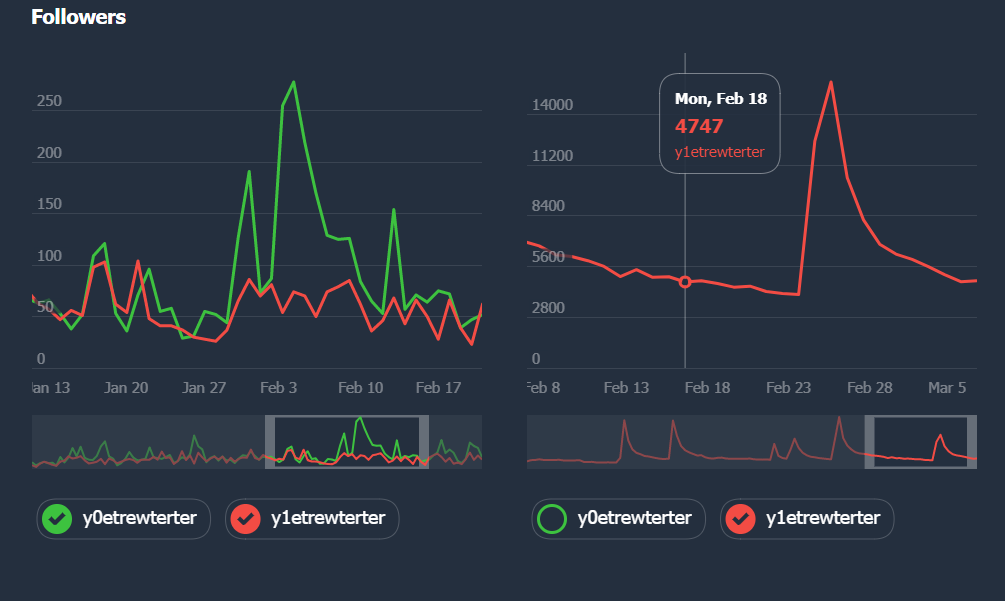
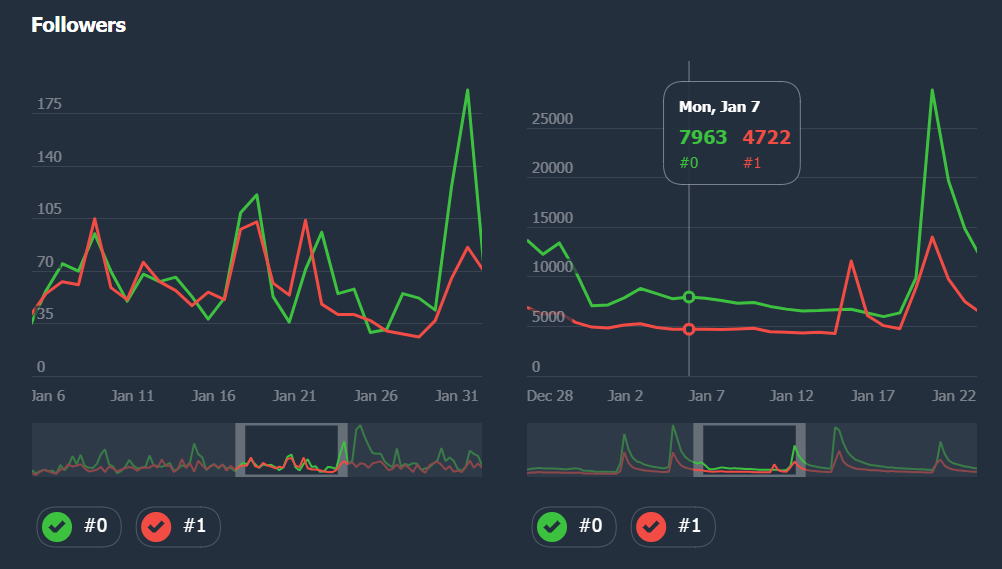
tooltip overflow fixes

diff --git a/src/telechart.min.js b/src/telechart.min.js
@@ -1,1 +1,1 @@
-var TeleChart=function(bW){var aU=window.parseInt,aG=Math.abs,h=Math.ceil,aF=Math.floor,bv=Math.round,bI=document,bC=undefined,x=true,r=false;var bo="line",am=12,Y=25,aI=1.5,bk=5,P=20,br=1,i=2,a1=3,bQ=4,R=5,bg=6,bu=[2,5,10],aj=["Jan","Feb","Mar","Apr","May","Jun","Jul","Aug","Sep","Oct","Nov","Dec"],z=["Sun","Mon","Tue","Wed","Thu","Fri","Sat"],E=["inherit","pointer","col-resize"],by=2*Math.PI,aZ="px",G="bold ",bS=bU(ac),f=bU(bb);var a=bI.getElementById(bW),bJ=a.offsetWidth*aI,v=aU(bJ*am/100),l=bJ-v-v*2,ap=v/2,p=l+v+bk*4,b1=p+v,K=b1+bk*10+P*4,g,m=bK(bJ,K,"m_"+bW),bG=bK(bJ,K,"f_"+bW),bV=m.getContext("2d"),aS=bG.getContext("2d"),bT,ah=[],bL={},I,F,bO,bM,aq,af,n={},aV,ax,a3,bh,a0,az,aQ,aR,aw,b0,bZ,bN,C,bw,Z,av,au,N,bt=0,bx,bE,aK,ai=1,bl,T,X,bD,c,aJ,bs,aE,O=0,ao=0,ag,y,bR,e=0,bf=[],aP=[],t,bH,a8,a7;function at(b4){aS.lineJoin=b4?"round":"miter"}function bd(){var b7=w("font-size"),b9=w("font-family"),b8=m.style;at(false);var b4=aU(b7.replace(/\D/g,"")),b6=function(ca){bc(ca,x)},b5=function(ca){bc(ca,r)};ag=aU(b4*1.2);y=aU(b4*aI);t=ag+aZ+" "+b9;a7=y+aZ+" "+b9;bH=G+t;a8=G+a7;M(t);aK=bn("XXX XX");b8.width=aU(bJ/aI)+aZ;b8.height=aU(K/aI)+aZ;a.appendChild(m);m.onmousemove=aW;m.ontouchmove=aW;m.onmouseout=aW;m.onmousedown=b6;m.onmouseup=b5;m.ontouchstart=b6;m.ontouchend=b5;window.addEventListener("scroll",aa);window.addEventListener("resize",aa);window.addEventListener("mouseup",b5);aa();al()}function bb(b4){bZ=b4}function bj(b4){au=b4}function aM(b4){bt=b4}function k(b4){aV=b4;bR=x}function bp(b4){ax=b4;bR=x}function ac(b4){aw=b4}function H(b4){ao=b4}function d(b4){T=b4}function a5(b4){O=b4}function B(b5,b4){b4.sOp=b5}function a4(b5,b4){b4.bPulse=b5}function bA(b4){ai=b4}function bP(){bT=null;ah=[];bi()}function A(){}function bi(){g=x}function al(){var b5=w("color"),b7=w("background-color"),b4,b6;for(b6=0;b6<=10;b6++){b4=b6/10;bf[b6]=u(b5,b4);aP[b6]=u(b7,b4)}bi()}function aB(b4){if(b4){bq(b4);bi()}}function w(b4){var b6=bI.body,b5=b6.currentStyle;if(b5){return b5[b4]}return bI.defaultView.getComputedStyle(b6,null)[b4]}function bK(b6,b4,b7){var b5=bI.createElement("canvas");b5.id="lr_"+b7;b5.width=b6;b5.height=b4;return b5}function j(b5,b6){var b4=new Date(b5);return(b6?z[b4.getDay()]+", ":"")+aj[b4.getMonth()]+" "+b4.getDate()}function bz(b5,b4){return b4===bC||b5>b4?b5:b4}function L(b5,b4){return b4===bC||b5<b4?b5:b4}function ae(b4){m.style.cursor=E[b4]}function U(b5){var b7=null,b6;if(!b0||!av){return}if(F<p&&I>0&&I<bJ){var b9=bv(I/b0+a0);ak(b9);if(s(aw,ac,b9)){s(O,a5,0)}n.tS=aV;n.tE=ax;n.tF=I;b7=bg;bi()}else{if(F>p&&F<b1){b7=br;var ca=(aV)*av,b4=(ax)*av,b8=ca-I,cb=b4-I;if(aG(b8+bk)<bk*2){b7=i}else{if(aG(cb-bk)<bk*2){b7=a1}else{if(I>ca&&I<b4){n.nS=b8/av;n.nE=cb/av;b7=bQ}}}}else{if(F>b1){for(b6 in ah){var cc=ah[b6];cc.bO=r;if(I>cc.bX&&I<cc.bX+cc.bW&&F>cc.bY&&F<cc.bY+cc.bH){cc.bO=x;b7=R}}}}}if(aq!==b7||b5){aq=b7;if(aq!==bg){s(ao,H,0)}else{if(aq!==R){for(b6 in ah){ah[b6].bO=r}}}switch(aq){case i:case a1:ae(2);break;case bQ:case R:ae(1);break;case bg:s(ao,H,1);ae(0);break;default:ae(0);break}}}function aT(b4){b4.preventDefault();b4.stopPropagation()}function aH(b4){a3=b4;s(aV,k,b4)}function S(b4){bh=b4;s(ax,bp,b4)}function aC(b5,b8,b9,b4){var b7=b5+b9,b6=b5+b4;if(b7<0){b7=0;b6=b4-b9}if(b6>b8){b6=b8;b7=b8-b4+b9}aH(b7);S(b6)}function b3(){var b5=I/av,b6=bT.data.length-2;if(b5<0){b5=0}else{if(b5>b6){b5=b6}}var b4=30/av;switch(aq){case i:if(ax-b5>b4){aH(b5)}break;case a1:if(b5-aV>b4){S(b5)}break;case bQ:aC(b5,b6,n.nS,n.nE);break}}function b(){if(!bT){return}if(bg===aq){var b4=(n.tF-I)/b0;if(b4>bk||n.tI){n.tI=x;var b5=bT.data.length-2;aC(b4,b5,n.tS,n.tE)}}else{b3()}}function bm(b7,b6){var b5=b7.clientX,b4=b7.clientY;if(b5&&b4){I=aU((b5-bO)*aI);F=aU((b4-bM)*aI);(af&&!b6)?b():U();bi()}}function aW(b6,b5){aT(b6);var b4=b6.touches;(b4&&b4.length)?bm(b4[0],b5):bm(b6,b5)}function bc(b8,b7){aT(b8);af=b7;aW(b8,true);if(b7){U(x);switch(aq){case bQ:case i:case a1:s(bt,aM,1,15);bx=aq;break;case R:af=false;for(var b6 in ah){var b5=ah[b6];if(b5.bO){b5.bOn=!b5.bOn;var b4=b5.bOn?1:0;s(b5.sOp,B,b4,bC,b5);s(0,a4,1,30,b5);ba();V()}}break;case bg:n.tI=x;break}}else{n.tI=false;s(bt,aM,0,15)}bi()}function aa(){var b4=m.getBoundingClientRect();bO=b4.left;bM=b4.top;bi()}function u(b5,b7){if(b7===1){return b5}if(b5.indexOf("#")!==-1){var b6=b5.length===7?/^#?([a-f\d]{2})([a-f\d]{2})([a-f\d]{2})$/i:/^#?([a-f\d])([a-f\d])([a-f\d])$/i;var b4=b6.exec(b5);b5="rgb("+aU(b4[1],16)+","+aU(b4[2],16)+","+aU(b4[3],16)+")"}if(b5.indexOf("a")===-1){return b5.replace(")",", "+b7+")").replace("rgb","rgba")}return b5}function aO(b4){aS.lineWidth=b4}function ab(){aS.beginPath()}function q(){aS.stroke()}function a9(){aS.closePath()}function bn(b4){return aS.measureText(b4).width}function aD(b5,b4,b6){aS.fillText(b5,b4,b6)}function Q(b5,b4,b6){b5?aS.moveTo(b4,b6):aS.lineTo(b4,b6)}function aX(b6,b5,b4,b7){aS.quadraticCurveTo(b6,b5,b4,b7)}function aY(){aS.fill()}function J(b5,b6,b4){aS.arc(b5,b6,b4,0,by)}function be(b4,b7,b5,b6){aS.fillRect(b4,b7,b5,b6)}function aA(b4){aS.strokeStyle=b4}function bF(b4){aS.fillStyle=b4}function M(b4){aS.font=b4}function D(b4,b5){aS.translate(b4,b5)}function an(){var b5=l+ap;ab();aA(bf[1]);aO(1);var b6=b5;while(b6>ap){var b4=aU(b6)+0.5;Q(x,0,b4);Q(r,bJ,b4);b6=b6+bE*bZ}q()}function b2(){var b9=l+ap,ce=bf[4],b7=!bw||!af,ca;if(b7){bw=aQ;Z=aU(h((az-a0)/6))}bF(aP[10]);be(0,p-v+bk*2,bJ,v-bk*2);aO(1);bF(ce);var b5=bw;if(!b7){while(b5-Z>=aQ){b5=b5-Z}while(b5<aQ){b5=b5+Z}}for(ca=aQ;ca<=aR;ca++){var b8=(ca-a0)*b0;if(b5<=ca){var cg=j(bT.data[ca]);aD(cg,b8,b9+bk*5);b5=b5+Z}}var cb=0,b6=b9,b4=aP[aU(7*ai)];ce=bf[aU(4*ai)];while(b6>ap){var cf=aU(b6)+0.5-bk;var cd=cb.toString();var cc=bn(cd);bF(b4);be(bk/2,cf-ag+2,cc+bk*2,ag);bF(ce);aD(cd,bk,cf);cb=aU(cb+bE);b6=b6+bE*bZ}}function o(b5,b9,b8,b4,b7,b6){ab();aA(bf[aU((b7?4:2)*b6)]);bF(aP[aU(3+6*b6)]);aO(1);Q(x,b5+P,b9);Q(r,b5+b8-P,b9);aX(b5+b8,b9,b5+b8,b9+P);Q(r,b5+b8,b9+b4-P);aX(b5+b8,b9+b4,b5+b8-P,b9+b4);Q(r,b5+P,b9+b4);aX(b5,b9+b4,b5,b9+b4-P);Q(r,b5,b9+P);aX(b5,b9,b5+P,b9);a9();aY();q()}function ar(b7){var b6=b7.bX,b5=b7.bY,b8=b7.color,b4=b7.name;o(b6,b5,b7.bW,b7.bH,b7.bO,1);bF(b8);ab();J(b6+P,b5+P,P-bk);aY();aA(aP[10]);aO(4);ab();D(-2,4);Q(x,b6+P-bk,b5+P-bk);Q(r,b6+P,b5+P);Q(r,b6+P+bk*1.8,b5+P-bk*1.8);D(2,-4);q();ab();bF(aP[10]);J(b6+P,b5+P,12-b7.sOp*12);aY();bF(bf[10]);M(a7);aD(b4,b6+P*2+bk+1,b5+P+ag/2-bk+2);M(t);ab();aA(bf[aU((1-b7.bPulse)*4)]);aO(10);J(b6+P,b5+P,b7.bPulse*30);q()}function bB(){for(var b4 in ah){ar(ah[b4])}}function W(){var b7=r,b6=l+ap,b8,b5,b4,ca,b9;for(b8 in ah){b4=ah[b8];if(b4.bOn){b7=x}ab();aO(2);aA(b4.sCg[aU(10*b4.sOp)]);var cb=bT.data.length;ca=0;for(b5=1;b5<cb;){b9=b1+(b4.data[b5]-N)*au;if(b9<p){b9=p}Q(b5===1,ca,b9);ca=b5++*av}q();at(true);ab();aO(3);for(b5=aQ;b5<=aR;){ca=(b5-a0)*b0;b9=b6+(b4.data[b5]-bN)*bZ;Q(b5++===aQ,ca,b9)}q();at(false)}return b7}function bX(){var b4=l+ap,cd=(aw-a0)*b0,cf=aF(aw),ce=cf+1,b7,b8,cj=10*ao;ab();aA(bf[aU(4*ao)]);aO(1);Q(x,cd,0);Q(r,cd,l+ap);q();aO(3);for(b7 in ah){b8=ah[b7];var ch=b4+(b8.data[cf]-bN)*bZ,ca,cc=b8.sOp;if(cf===aw||ce>=az){ca=ch}else{var cg=b4+(b8.data[ce]-bN)*bZ;ca=ch+(cg-ch)*(aw-cf)}ab();bF(aP[aU(cj*cc)]);J(cd,ca,3);aY();ab();aA(b8.sCg[aU(cj*cc)]);J(cd,ca,5);q()}o(cd+c,bD,T,X,x,ao);M(bH);bF(bf[aU(cj*O)]);aD(bl,cd+aJ,aE);var b5=P+bk*3;var cb=0;for(b7 in ah){b8=ah[b7];var ci=b8.data[cf];if(!b8.bOn){continue}var b9=(cb&1);var b6=b9?bs:aJ;if(!b9){b5+=(y+bk)*2}bF(b8.sCg[aU(cj*O)]);M(a8);aD(ci,cd+b6,b5);M(t);aD(b8.name,cd+b6,b5+y+bk);cb++}}function aN(b6,b4){if(bt){var b5;if(bx===i){b5=b6}else{if(bx===a1){b5=b4}else{b5=b6+(b4-b6)/2}}ab();bF(bf[aU(bt*2)]);J(b5,p+v/2,bt*35);aY()}}function a2(){aS.clearRect(0,0,bJ,K);if(bT&&ah&&ah.length){M(t);var b4=a3*av,b6=bh*av;bF(bf[3]);be(b4,p,b6-b4,v);bF(aP[10]);be(b4+bk*2,p+bk/2,b6-b4-bk*4,v-bk);an();var b5=W();bF(bf[1]);be(0,p,b4,v);be(b6,p,bJ-b6,v);bF(aP[5]);be(0,p,b4,v);be(b6,p,bJ-b6,v);if(b5){b2()}if(b5&&ao>0){bX()}bB();aN(b4,b6);bV.clearRect(0,0,bJ,K);bV.drawImage(bG,0,0,bJ,K)}}function ba(){av=(bJ)/(bT.data.length-2);var b4=bC,b6=e,b7;for(b7 in ah){var b5=ah[b7];if(b5.bOn){b4=bz(b5.max,b4);b6=L(b5.min,b6)}}if(b4){N=b6+1;if(s(au,bj,-(v-2)/(b4-b6))){s(ai,bA,0,2)}}}function aL(){var b6=h((C-bN)/6),b4=b6/25,b7=0,b9=1,b8,b5;do{if(b7>=bu.length){b7=0;b9=b9*10}b5=bu[b7]*b9;b8=h(b6/b5)*b5;b7++}while(b8-b6<b4);bE=b8}function V(){a0=aV+1;az=ax+1;var b4=bC,b7=e,b9,b8;for(b9 in ah){var b6=ah[b9];if(b6.bOn){aQ=aF(a0);aR=h(az);for(b8=aQ;b8<=aR;b8++){var b5=b6.data[b8];b4=bz(b5,b4);b7=L(b5,b7)}}}if(b4){b0=bJ/(az-a0);bN=b7;C=b4;s(bZ,bb,-(l-2)/(b4-b7));aL()}}function ay(){var b7=bk,b5=b1+bk*6,b8=P*2,ca,b9;M(a7);for(ca in ah){var b6=ah[ca],b4=40+bk*4+bn(b6.name);if(b7+b4>bJ){b7=bk;b5=b5+b8+bk*3}b6.bX=b7;b6.bY=b5;b6.bW=b4;b6.bH=b8;b6.sCg=[];b7=b7+b4+bk*3;for(b9=0;b9<=10;b9++){b6.sCg[b9]=u(b6.color,b9/10)}}M(t)}function bq(b4){if(!b4){return}var b7=b4.columns,b8;if(!b7){return}for(b8 in b7){var cd=b7[b8],b5=cd.length,ce=bC,ca=bC,cb=cd[0];for(var b6=1;b6<b5;b6++){var cc=cd[b6];ce=bz(cc,ce);ca=L(cc,ca)}if(cb==="x"){bT={data:cd,min:ca,max:ce};S(b5-2);aH(bh-(bh)*Y/100)}else{ah.push({alias:cb,data:cd,type:bo,name:cb,min:ca,max:ce,bOn:x,sOp:1})}}function b9(cj,ck){if(cj){var ch,cg,ci,cf;for(ch in cj){cg=cj[ch];for(ci in ah){cf=ah[ci];if(cf.alias===ch){cf[ck]=cg}}}}}b9(b4.types,"type");b9(b4.colors,"color");b9(b4.names,"name");ba();ay()}function bU(b4){return b4.name||b4.toString().match(/^function\s*([^\s(]+)/)[1]}function s(b4,b9,b7,b6,b8){if(b4===b7||!b9){return r}var b5=bU(b9);if(b8){b5+=b8.alias}bL[b5]={i:b4,c:b9,p:b7,s:b6||(af||aq===bg?5:15),o:b8};return x}function bY(){var b4,b5;for(b4 in bL){b5=bL[b4];if(b5){if(!b5.f){b5.f=(b5.p-b5.i)/b5.s}b5.i=b5.i+b5.f;if(b5.f!==0&&aG(b5.i-b5.p)>aG(b5.f*2)){b5.c(b5.i,b5.o)}else{b5.c(b5.p,b5.o);delete bL[b4];a6(b4)}bi()}}}function ak(cb){bD=P+0.5;c=-25.5;aJ=-25+bk*3;aE=P+bk*3+ag+0.5;var b9=aF(cb);bl=j(bT.data[b9],x);var b4=bk;var b8=0;for(var ca in ah){var b7=ah[ca];if(!b7.bOn){continue}b8++;var b5=b7.data[b9];M(a8);b4=bz(bn(b5)+bk,b4);M(t);b4=bz(bn(b7.name)+bk,b4)}bs=b4;var b6=(b4+bk*3);if(b8>1){b6*=2}b6=bz(120.5,b6);s(T,d,b6);X=55+h(b8/2)*((y+bk)*2)}function a6(b4){if(b4===bS){s(O,a5,1,5)}else{if(b4===f){s(ai,bA,1,10)}}}function ad(){bY();if(bR){bR=r;V()}if(g){g=r;a2()}requestAnimationFrame(ad)}bd();ad();return{draw:aB,invalidate:al,clear:bP,destroy:A}};
+var TeleChart=function(bW){var aU=window.parseInt,aG=Math.abs,h=Math.ceil,aF=Math.floor,bv=Math.round,bI=document,bC=undefined,x=true,r=false;var bo="line",am=12,Y=25,aI=1.5,bk=5,P=20,br=1,i=2,a1=3,bQ=4,R=5,bg=6,bu=[2,5,10],aj=["Jan","Feb","Mar","Apr","May","Jun","Jul","Aug","Sep","Oct","Nov","Dec"],z=["Sun","Mon","Tue","Wed","Thu","Fri","Sat"],E=["inherit","pointer","col-resize"],by=2*Math.PI,aZ="px",G="bold ",bS=bU(ac),f=bU(bb);var a=bI.getElementById(bW),bJ=a.offsetWidth*aI,v=aU(bJ*am/100),l=bJ-v-v*2,ap=v/2,p=l+v+bk*4,b1=p+v,K=b1+bk*10+P*4,g,m=bK(bJ,K,"m_"+bW),bG=bK(bJ,K,"f_"+bW),bV=m.getContext("2d"),aS=bG.getContext("2d"),bT,ah=[],bL={},I,F,bO,bM,aq,af,n={},aV,ax,a3,bh,a0,az,aQ,aR,aw,b0,bZ,bN,C,bw,Z,av,au,N,bt=0,bx,bE,aK,ai=1,bl,T,X,bD,c,aJ,bs,aE,O=0,ao=0,ag,y,bR,e=0,bf=[],aP=[],t,bH,a8,a7;function at(b4){aS.lineJoin=b4?"round":"bevel"}function bd(){var b7=w("font-size"),b9=w("font-family"),b8=m.style;at(false);var b4=aU(b7.replace(/\D/g,"")),b6=function(ca){bc(ca,x)},b5=function(ca){bc(ca,r)};ag=aU(b4*1.2);y=aU(b4*aI);t=ag+aZ+" "+b9;a7=y+aZ+" "+b9;bH=G+t;a8=G+a7;M(t);aK=bn("XXX XX");b8.width=aU(bJ/aI)+aZ;b8.height=aU(K/aI)+aZ;a.appendChild(m);m.onmousemove=aW;m.ontouchmove=aW;m.onmouseout=aW;m.onmousedown=b6;m.onmouseup=b5;m.ontouchstart=b6;m.ontouchend=b5;window.addEventListener("scroll",aa);window.addEventListener("resize",aa);window.addEventListener("mouseup",b5);aa();al()}function bb(b4){bZ=b4}function bj(b4){au=b4}function aM(b4){bt=b4}function k(b4){aV=b4;bR=x}function bp(b4){ax=b4;bR=x}function ac(b4){aw=b4}function H(b4){ao=b4}function d(b4){T=b4}function a5(b4){O=b4}function B(b5,b4){b4.sOp=b5}function a4(b5,b4){b4.bPulse=b5}function bA(b4){ai=b4}function bP(){bT=null;ah=[];bi()}function A(){}function bi(){g=x}function al(){var b5=w("color"),b7=w("background-color"),b4,b6;for(b6=0;b6<=10;b6++){b4=b6/10;bf[b6]=u(b5,b4);aP[b6]=u(b7,b4)}bi()}function aB(b4){if(b4){bq(b4);bi()}}function w(b4){var b6=bI.body,b5=b6.currentStyle;if(b5){return b5[b4]}return bI.defaultView.getComputedStyle(b6,null)[b4]}function bK(b6,b4,b7){var b5=bI.createElement("canvas");b5.id="lr_"+b7;b5.width=b6;b5.height=b4;return b5}function j(b5,b6){var b4=new Date(b5);return(b6?z[b4.getDay()]+", ":"")+aj[b4.getMonth()]+" "+b4.getDate()}function bz(b5,b4){return b4===bC||b5>b4?b5:b4}function L(b5,b4){return b4===bC||b5<b4?b5:b4}function ae(b4){m.style.cursor=E[b4]}function U(b5){var b7=null,b6;if(!b0||!av){return}if(F<p&&I>0&&I<bJ){var b9=bv(I/b0+a0);ak(b9);if(s(aw,ac,b9)){s(O,a5,0)}n.tS=aV;n.tE=ax;n.tF=I;b7=bg;bi()}else{if(F>p&&F<b1){b7=br;var ca=(aV)*av,b4=(ax)*av,b8=ca-I,cb=b4-I;if(aG(b8+bk)<bk*2){b7=i}else{if(aG(cb-bk)<bk*2){b7=a1}else{if(I>ca&&I<b4){n.nS=b8/av;n.nE=cb/av;b7=bQ}}}}else{if(F>b1){for(b6 in ah){var cc=ah[b6];cc.bO=r;if(I>cc.bX&&I<cc.bX+cc.bW&&F>cc.bY&&F<cc.bY+cc.bH){cc.bO=x;b7=R}}}}}if(aq!==b7||b5){aq=b7;if(aq!==bg){s(ao,H,0)}else{if(aq!==R){for(b6 in ah){ah[b6].bO=r}}}switch(aq){case i:case a1:ae(2);break;case bQ:case R:ae(1);break;case bg:s(ao,H,1);ae(0);break;default:ae(0);break}}}function aT(b4){b4.preventDefault();b4.stopPropagation()}function aH(b4){a3=b4;s(aV,k,b4)}function S(b4){bh=b4;s(ax,bp,b4)}function aC(b5,b8,b9,b4){var b7=b5+b9,b6=b5+b4;if(b7<0){b7=0;b6=b4-b9}if(b6>b8){b6=b8;b7=b8-b4+b9}aH(b7);S(b6)}function b3(){var b5=I/av,b6=bT.data.length-2;if(b5<0){b5=0}else{if(b5>b6){b5=b6}}var b4=30/av;switch(aq){case i:if(ax-b5>b4){aH(b5)}break;case a1:if(b5-aV>b4){S(b5)}break;case bQ:aC(b5,b6,n.nS,n.nE);break}}function b(){if(!bT){return}if(bg===aq){var b4=(n.tF-I)/b0;if(b4>bk||n.tI){n.tI=x;var b5=bT.data.length-2;aC(b4,b5,n.tS,n.tE)}}else{b3()}}function bm(b7,b6){var b5=b7.clientX,b4=b7.clientY;if(b5&&b4){I=aU((b5-bO)*aI);F=aU((b4-bM)*aI);(af&&!b6)?b():U();bi()}}function aW(b6,b5){aT(b6);var b4=b6.touches;(b4&&b4.length)?bm(b4[0],b5):bm(b6,b5)}function bc(b8,b7){aT(b8);af=b7;aW(b8,true);if(b7){U(x);switch(aq){case bQ:case i:case a1:s(bt,aM,1,15);bx=aq;break;case R:af=false;for(var b6 in ah){var b5=ah[b6];if(b5.bO){b5.bOn=!b5.bOn;var b4=b5.bOn?1:0;s(b5.sOp,B,b4,bC,b5);s(0,a4,1,30,b5);ba();V()}}break;case bg:n.tI=x;break}}else{n.tI=false;s(bt,aM,0,15)}bi()}function aa(){var b4=m.getBoundingClientRect();bO=b4.left;bM=b4.top;bi()}function u(b5,b7){if(b7===1){return b5}if(b5.indexOf("#")!==-1){var b6=b5.length===7?/^#?([a-f\d]{2})([a-f\d]{2})([a-f\d]{2})$/i:/^#?([a-f\d])([a-f\d])([a-f\d])$/i;var b4=b6.exec(b5);b5="rgb("+aU(b4[1],16)+","+aU(b4[2],16)+","+aU(b4[3],16)+")"}if(b5.indexOf("a")===-1){return b5.replace(")",", "+b7+")").replace("rgb","rgba")}return b5}function aO(b4){aS.lineWidth=b4}function ab(){aS.beginPath()}function q(){aS.stroke()}function a9(){aS.closePath()}function bn(b4){return aS.measureText(b4).width}function aD(b5,b4,b6){aS.fillText(b5,b4,b6)}function Q(b5,b4,b6){b5?aS.moveTo(b4,b6):aS.lineTo(b4,b6)}function aX(b6,b5,b4,b7){aS.quadraticCurveTo(b6,b5,b4,b7)}function aY(){aS.fill()}function J(b5,b6,b4){aS.arc(b5,b6,b4,0,by)}function be(b4,b7,b5,b6){aS.fillRect(b4,b7,b5,b6)}function aA(b4){aS.strokeStyle=b4}function bF(b4){aS.fillStyle=b4}function M(b4){aS.font=b4}function D(b4,b5){aS.translate(b4,b5)}function an(){var b5=l+ap;ab();aA(bf[1]);aO(1);var b6=b5;while(b6>ap){var b4=aU(b6)+0.5;Q(x,0,b4);Q(r,bJ,b4);b6=b6+bE*bZ}q()}function b2(){var b9=l+ap,ce=bf[4],b7=!bw||!af,ca;if(b7){bw=aQ;Z=aU(h((az-a0)/6))}aO(1);bF(ce);var b5=bw;if(!b7){while(b5-Z>=aQ){b5=b5-Z}while(b5<aQ){b5=b5+Z}}for(ca=aQ;ca<=aR;ca++){var b8=(ca-a0)*b0;if(b5<=ca){var cg=j(bT.data[ca]);aD(cg,b8,b9+bk*5);b5=b5+Z}}var cb=0,b6=b9,b4=aP[aU(7*ai)];ce=bf[aU(4*ai)];while(b6>ap){var cf=aU(b6)+0.5-bk;var cd=cb.toString();var cc=bn(cd);bF(b4);be(bk/2,cf-ag+2,cc+bk*2,ag);bF(ce);aD(cd,bk,cf);cb=aU(cb+bE);b6=b6+bE*bZ}}function o(b5,b9,b8,b4,b7,b6){ab();aA(bf[aU((b7?4:2)*b6)]);bF(aP[aU(3+6*b6)]);aO(1);Q(x,b5+P,b9);Q(r,b5+b8-P,b9);aX(b5+b8,b9,b5+b8,b9+P);Q(r,b5+b8,b9+b4-P);aX(b5+b8,b9+b4,b5+b8-P,b9+b4);Q(r,b5+P,b9+b4);aX(b5,b9+b4,b5,b9+b4-P);Q(r,b5,b9+P);aX(b5,b9,b5+P,b9);a9();aY();q()}function ar(b7){var b6=b7.bX,b5=b7.bY,b8=b7.color,b4=b7.name;o(b6,b5,b7.bW,b7.bH,b7.bO,1);bF(b8);ab();J(b6+P,b5+P,P-bk);aY();aA(aP[10]);aO(4);ab();D(-2,4);Q(x,b6+P-bk,b5+P-bk);Q(r,b6+P,b5+P);Q(r,b6+P+bk*1.8,b5+P-bk*1.8);D(2,-4);q();ab();bF(aP[10]);J(b6+P,b5+P,12-b7.sOp*12);aY();bF(bf[10]);M(a7);aD(b4,b6+P*2+bk+1,b5+P+ag/2-bk+2);M(t);ab();aA(bf[aU((1-b7.bPulse)*4)]);aO(10);J(b6+P,b5+P,b7.bPulse*30);q()}function bB(){for(var b4 in ah){ar(ah[b4])}}function W(){var b7=r,b6=l+ap,b8,b5,b4,ca,b9;for(b8 in ah){b4=ah[b8];if(b4.bOn){b7=x}ab();aO(2);aA(b4.sCg[aU(10*b4.sOp)]);var cb=bT.data.length;ca=0;for(b5=1;b5<cb;){b9=b1+(b4.data[b5]-N)*au;if(b9<p){b9=p}Q(b5===1,ca,b9);ca=b5++*av}q();at(true);ab();aO(3);for(b5=aQ;b5<=aR;){ca=(b5-a0)*b0;b9=b6+(b4.data[b5]-bN)*bZ;Q(b5++===aQ,ca,b9)}q();at(false)}return b7}function bX(){var cg=l+ap,b6=(aw-a0)*b0,cb=aF(aw),cj=cb+1,b4,ci,b7=10*ao;ab();aA(bf[aU(4*ao)]);aO(1);Q(x,b6,0);Q(r,b6,l+ap);q();aO(3);for(b4 in ah){ci=ah[b4];var b9=cg+(ci.data[cb]-bN)*bZ,b5,cf=ci.sOp;if(cb===aw||cj>=az){b5=b9}else{var ca=cg+(ci.data[cj]-bN)*bZ;b5=b9+(ca-b9)*(aw-cb)}ab();bF(aP[aU(b7*cf)]);J(b6,b5,3);aY();ab();aA(ci.sCg[aU(b7*cf)]);J(b6,b5,5);q()}var cl=b6+c-3,ce=0;if(cl<0){b6=-c+3}else{var cd=cl+T-bJ+6;if(cd>0){ce=cd-T+P*2;b6=bJ-c-T-3}}if(cl>0){cl=0}if(ce<0){ce=0}o(b6+c+cl,bD,T-cl+ce,X,x,ao);M(bH);bF(bf[aU(b7*O)]);aD(bl,b6+aJ,aE);var cm=P+bk*3;var ch=0;for(b4 in ah){ci=ah[b4];var b8=ci.data[cb];if(!ci.bOn){continue}var ck=(ch&1);var cc=ck?bs:aJ;if(!ck){cm+=(y+bk)*2}bF(ci.sCg[aU(b7*O)]);M(a8);aD(b8,b6+cc,cm);M(t);aD(ci.name,b6+cc,cm+y+bk);ch++}}function aN(b6,b4){if(bt){var b5;if(bx===i){b5=b6}else{if(bx===a1){b5=b4}else{b5=b6+(b4-b6)/2}}ab();bF(bf[aU(bt*2)]);J(b5,p+v/2,bt*35);aY()}}function a2(){aS.clearRect(0,0,bJ,K);if(bT&&ah&&ah.length){M(t);var b4=a3*av,b6=bh*av;bF(bf[3]);be(b4,p,b6-b4,v);bF(aP[10]);be(b4+bk*2,p+bk/2,b6-b4-bk*4,v-bk);an();var b5=W();bF(bf[1]);be(0,p,b4,v);be(b6,p,bJ-b6,v);bF(aP[5]);be(0,p,b4,v);be(b6,p,bJ-b6,v);if(b5){b2()}if(b5&&ao>0){bX()}bB();aN(b4,b6);bV.clearRect(0,0,bJ,K);bV.drawImage(bG,0,0,bJ,K)}}function ba(){av=(bJ)/(bT.data.length-2);var b4=bC,b6=e,b7;for(b7 in ah){var b5=ah[b7];if(b5.bOn){b4=bz(b5.max,b4);b6=L(b5.min,b6)}}if(b4){N=b6+1;if(s(au,bj,-(v-2)/(b4-b6))){s(ai,bA,0,2)}}}function aL(){var b6=h((C-bN)/6),b4=b6/25,b7=0,b9=1,b8,b5;do{if(b7>=bu.length){b7=0;b9=b9*10}b5=bu[b7]*b9;b8=h(b6/b5)*b5;b7++}while(b8-b6<b4);bE=b8}function V(){a0=aV+1;az=ax+1;var b4=bC,b7=e,b9,b8;for(b9 in ah){var b6=ah[b9];if(b6.bOn){aQ=aF(a0);aR=h(az);for(b8=aQ;b8<=aR;b8++){var b5=b6.data[b8];b4=bz(b5,b4);b7=L(b5,b7)}}}if(b4){b0=bJ/(az-a0);bN=b7;C=b4;s(bZ,bb,-(l-2)/(b4-b7));aL()}}function ay(){var b7=bk,b5=b1+bk*6,b8=P*2,ca,b9;M(a7);for(ca in ah){var b6=ah[ca],b4=40+bk*4+bn(b6.name);if(b7+b4>bJ){b7=bk;b5=b5+b8+bk*3}b6.bX=b7;b6.bY=b5;b6.bW=b4;b6.bH=b8;b6.sCg=[];b7=b7+b4+bk*3;for(b9=0;b9<=10;b9++){b6.sCg[b9]=u(b6.color,b9/10)}}M(t)}function bq(b4){if(!b4){return}var b7=b4.columns,b8;if(!b7){return}for(b8 in b7){var cd=b7[b8],b5=cd.length,ce=bC,ca=bC,cb=cd[0];for(var b6=1;b6<b5;b6++){var cc=cd[b6];ce=bz(cc,ce);ca=L(cc,ca)}if(cb==="x"){bT={data:cd,min:ca,max:ce};S(b5-2);aH(bh-(bh)*Y/100)}else{ah.push({alias:cb,data:cd,type:bo,name:cb,min:ca,max:ce,bOn:x,sOp:1})}}function b9(cj,ck){if(cj){var ch,cg,ci,cf;for(ch in cj){cg=cj[ch];for(ci in ah){cf=ah[ci];if(cf.alias===ch){cf[ck]=cg}}}}}b9(b4.types,"type");b9(b4.colors,"color");b9(b4.names,"name");ba();ay()}function bU(b4){return b4.name||b4.toString().match(/^function\s*([^\s(]+)/)[1]}function s(b4,b9,b7,b6,b8){if(b4===b7||!b9){return r}var b5=bU(b9);if(b8){b5+=b8.alias}bL[b5]={i:b4,c:b9,p:b7,s:b6||(af||aq===bg?5:15),o:b8};return x}function bY(){var b4,b5;for(b4 in bL){b5=bL[b4];if(b5){if(!b5.f){b5.f=(b5.p-b5.i)/b5.s}b5.i=b5.i+b5.f;if(b5.f!==0&&aG(b5.i-b5.p)>aG(b5.f*2)){b5.c(b5.i,b5.o)}else{b5.c(b5.p,b5.o);delete bL[b4];a6(b4)}bi()}}}function ak(cb){bD=P+0.5;c=-25.5;aJ=-25+bk*3;aE=P+bk*3+ag+0.5;var b9=aF(cb);bl=j(bT.data[b9],x);var b4=bk;var b8=0;for(var ca in ah){var b7=ah[ca];if(!b7.bOn){continue}b8++;var b5=b7.data[b9];M(a8);b4=bz(bn(b5)+bk,b4);M(t);b4=bz(bn(b7.name)+bk,b4)}bs=b4;var b6=(b4+bk*3);if(b8>1){b6*=2}b6=bz(120.5,b6);s(T,d,b6);X=55+h(b8/2)*((y+bk)*2)}function a6(b4){if(b4===bS){s(O,a5,1,5)}else{if(b4===f){s(ai,bA,1,10)}}}function ad(){bY();if(bR){bR=r;V()}if(g){g=r;a2()}requestAnimationFrame(ad)}bd();ad();return{draw:aB,invalidate:al,clear:bP,destroy:A}};

diff --git a/src/telechart.js b/src/telechart.js
@@ -51,7 +51,7 @@ var TeleChart = function (ctxId) {
         selectionUpSpace = navigatorHeight / 2,
         navigatorTop = selectionHeight + navigatorHeight + CONST_PADDING * 4,
         navigatorBottom = navigatorTop + navigatorHeight,
-        totalHeight = navigatorBottom + CONST_PADDING *10 + CONST_BTN_RADIUS * 4,
+        totalHeight = navigatorBottom + CONST_PADDING * 10 + CONST_BTN_RADIUS * 4,
         needRedraw,
         mainCanvas = createCanvas(totalWidth, totalHeight, "m_" + ctxId),
         frameCanvas = createCanvas(totalWidth, totalHeight, "f_" + ctxId),
@@ -120,7 +120,7 @@ var TeleChart = function (ctxId) {
         envRegularNormalFont;
 
     function setRound(enable) {
-        frameContext.lineJoin = enable? "round": "miter";
+        frameContext.lineJoin = enable ? "round" : "bevel";
     }
 
     /**
@@ -345,7 +345,7 @@ var TeleChart = function (ctxId) {
                 animate(legendTextOpacity, setLegendTextOpacity, 0);
             }
             mouseFrame.tS = zoomStartSmooth;
-            mouseFrame.tE = zoomEndSmooth ;
+            mouseFrame.tE = zoomEndSmooth;
             mouseFrame.tF = mouseX;
             _result = ENUM_SELECTION_HOVER;
             invalidateInner();
@@ -356,9 +356,9 @@ var TeleChart = function (ctxId) {
                 _startZShift = _startZoom - mouseX,
                 _endZShift = _endZoom - mouseX;
 
-            if (fMathAbs(_startZShift + CONST_PADDING) < CONST_PADDING*2) {
+            if (fMathAbs(_startZShift + CONST_PADDING) < CONST_PADDING * 2) {
                 _result = ENUM_START_SELECTION_HOVER;
-            } else if (fMathAbs(_endZShift - CONST_PADDING) < CONST_PADDING*2) {
+            } else if (fMathAbs(_endZShift - CONST_PADDING) < CONST_PADDING * 2) {
                 _result = ENUM_END_SELECTION_HOVER;
             } else if (mouseX > _startZoom && mouseX < _endZoom) {
                 mouseFrame.nS = _startZShift / navigatorFactorX;
@@ -751,8 +751,8 @@ var TeleChart = function (ctxId) {
         }
 
 
-        setFillStyle(envBgColorGrad[10]);
-        fillRect(0, navigatorTop - navigatorHeight + CONST_PADDING * 2, totalWidth, navigatorHeight - CONST_PADDING * 2);
+        //setFillStyle(envBgColorGrad[10]);
+        //fillRect(0, navigatorTop - navigatorHeight + CONST_PADDING * 2, totalWidth, navigatorHeight - CONST_PADDING * 2);
         //X-axis labels
         setLineWidth(1);
         setFillStyle(_c);
@@ -922,7 +922,7 @@ var TeleChart = function (ctxId) {
     /**
      * Draws the legend
      */
-    function drawSeriesLegend() { //todo optimize
+    function drawSeriesLegend() { //todo optimize (big code)
         var _selectionAxis = selectionHeight + selectionUpSpace,
             _sValueX = (selectionCurrentIndexFloat - selectionStartIndexFloat  ) * selectionFactorX,
             _from = fMathFloor(selectionCurrentIndexFloat),
@@ -962,12 +962,33 @@ var TeleChart = function (ctxId) {
             circle(_sValueX, _sValueY, 5);
             endPath();
         }
-        drawBalloon(_sValueX + legendLeft, legendTop,
-            legendWidth, legendHeight, vTrue, legendBoxOpacity);
+
+        var _left = _sValueX + legendLeft - 3,
+            _right = 0;
+        if (_left < 0) {
+            _sValueX =  - legendLeft+ 3;
+        }
+        else {
+            var _overlap = _left + legendWidth - totalWidth + 6 ;
+            if (_overlap > 0) {
+                _right = _overlap - legendWidth+ CONST_BTN_RADIUS*2;
+                _sValueX =   totalWidth - legendLeft - legendWidth - 3;
+            }
+        }
+
+        if (_left > 0) {
+            _left = 0;
+        }
+        if (_right < 0) {
+            _right = 0;
+        }
+
+        drawBalloon(_sValueX + legendLeft+_left, legendTop,
+            legendWidth - _left + _right, legendHeight, vTrue, legendBoxOpacity);
         setFont(envBoldSmallFont);
         setFillStyle(envColorGrad[fParseInt(_legendBoxOpacity * legendTextOpacity)]);
         fillText(legendDateText, _sValueX + legendDateLeft, legendDateTop);
-        var _currentY = CONST_BTN_RADIUS + CONST_PADDING * 3 ;
+        var _currentY = CONST_BTN_RADIUS + CONST_PADDING * 3;
         var _qnt = 0;
         for (_i in yAxisDataRefs) {
             _axisY = yAxisDataRefs[_i];
@@ -1005,7 +1026,7 @@ var TeleChart = function (ctxId) {
             }
 
             beginPath();
-            setFillStyle(envColorGrad[fParseInt(navigatorPressed*2)]);
+            setFillStyle(envColorGrad[fParseInt(navigatorPressed * 2)]);
 
             circle(_x, navigatorTop + navigatorHeight / 2, navigatorPressed * 35);
             fill();
@@ -1055,7 +1076,7 @@ var TeleChart = function (ctxId) {
             //  frameContext.fillStyle = "rgba(0, 0, 0, 0.2)";
             //   frameContext.fillText("mouseX " + mouseX, 10, 50);
             //    frameContext.fillText("mouseY " + mouseY, 10, 70);
-           // frameContext.fillText("mouseFrame.tS=" +mouseFrame.tS, 10, 30);
+            // frameContext.fillText("mouseFrame.tS=" +mouseFrame.tS, 10, 30);
             mainCtx.clearRect(0, 0, totalWidth, totalHeight);
             mainCtx.drawImage(frameCanvas, 0, 0, totalWidth, totalHeight);
         }
@@ -1144,7 +1165,7 @@ var TeleChart = function (ctxId) {
     function calcButtonsParams() {
         var _x = CONST_PADDING,
             _y = navigatorBottom + CONST_PADDING * 6,
-            _height = CONST_BTN_RADIUS* 2,
+            _height = CONST_BTN_RADIUS * 2,
             _i,
             _j;
         setFont(envRegularNormalFont);
@@ -1209,7 +1230,7 @@ var TeleChart = function (ctxId) {
                         alias: _alias,
                         data: _column, //without realloc mem
                         type: CONST_DEFAULT_TYPE,
-                        name: _alias , //todo debug need remove + "etrewterter"
+                        name: _alias, //todo debug need remove + "etrewterter"
                         min: _min,
                         max: _max,
                         bOn: vTrue,
@@ -1239,7 +1260,7 @@ var TeleChart = function (ctxId) {
 
         assignAxisProperty(src.types, "type");
         assignAxisProperty(src.colors, "color");
-         assignAxisProperty(src.names, "name"); //todo need revert debug
+        assignAxisProperty(src.names, "name"); //todo need revert debug
 
         calcNavigatorFactors();
         calcButtonsParams();
@@ -1312,11 +1333,9 @@ var TeleChart = function (ctxId) {
      *  Calculate legend in cache once before show
      */
     function calcLegendPosition(pos) {
-
-
         legendTop = CONST_BTN_RADIUS + 0.5;
-        legendLeft = -25.5;
-        legendDateLeft = - 25 + CONST_PADDING * 3;
+        legendLeft = -25.5;// -25.5;
+        legendDateLeft = -25 + CONST_PADDING * 3;
         legendDateTop = CONST_BTN_RADIUS + CONST_PADDING * 3 + envSmallTextHeight + 0.5;
         var _dataIndex = fMathFloor(pos);
         legendDateText = formatDate(xAxisDataRef.data[_dataIndex], vTrue);
@@ -1331,20 +1350,19 @@ var TeleChart = function (ctxId) {
             _qnt++;
             var _value = _axisY.data[_dataIndex];
             setFont(envBoldNormalFont);
-             _width = getMax(getTextWidth(_value) + CONST_PADDING, _width);
+            _width = getMax(getTextWidth(_value) + CONST_PADDING, _width);
             setFont(envRegularSmallFont);
-             _width = getMax(getTextWidth(_axisY.name) + CONST_PADDING, _width);
+            _width = getMax(getTextWidth(_axisY.name) + CONST_PADDING, _width);
         }
 
-        legendDateLeftEx =_width;
+        legendDateLeftEx = _width;
         var _proposedWidth = (_width + CONST_PADDING * 3);
-        if (_qnt> 1)
-        {
-            _proposedWidth*= 2;
+        if (_qnt > 1) {
+            _proposedWidth *= 2;
         }
         _proposedWidth = getMax(120.5, _proposedWidth);
-        animate(legendWidth,setLegendWidth,_proposedWidth);
-        legendHeight = 55 + fMathCeil(_qnt/2) * ((envNormalTextHeight + CONST_PADDING) * 2);
+        animate(legendWidth, setLegendWidth, _proposedWidth);
+        legendHeight = 55 + fMathCeil(_qnt / 2) * ((envNormalTextHeight + CONST_PADDING) * 2);
     }
 
     /**
@@ -1376,10 +1394,10 @@ var TeleChart = function (ctxId) {
             redrawFrame();
 
             //todo======================== debug
-           // var _performance = performance.now();
-          //  var _delta = (_performance - lastCalledTime) / 1000;
-          //  mainCtx.fillText("FPS " + fParseInt(1 / _delta), 10, 90);
-          //  lastCalledTime = _performance;
+            // var _performance = performance.now();
+            //  var _delta = (_performance - lastCalledTime) / 1000;
+            //  mainCtx.fillText("FPS " + fParseInt(1 / _delta), 10, 90);
+            //  lastCalledTime = _performance;
             //todo======================== debug
         }
 

diff --git a/README.md b/README.md
@@ -30,4 +30,4 @@ Demo: https://muiota.github.io/TeleChart/
  - Cleanup code 
 ````
 
-![Screenshot](https://i.imgur.com/IkHg18g.png)
+![Screenshot](https://i.imgur.com/sYxKiEV.png)
